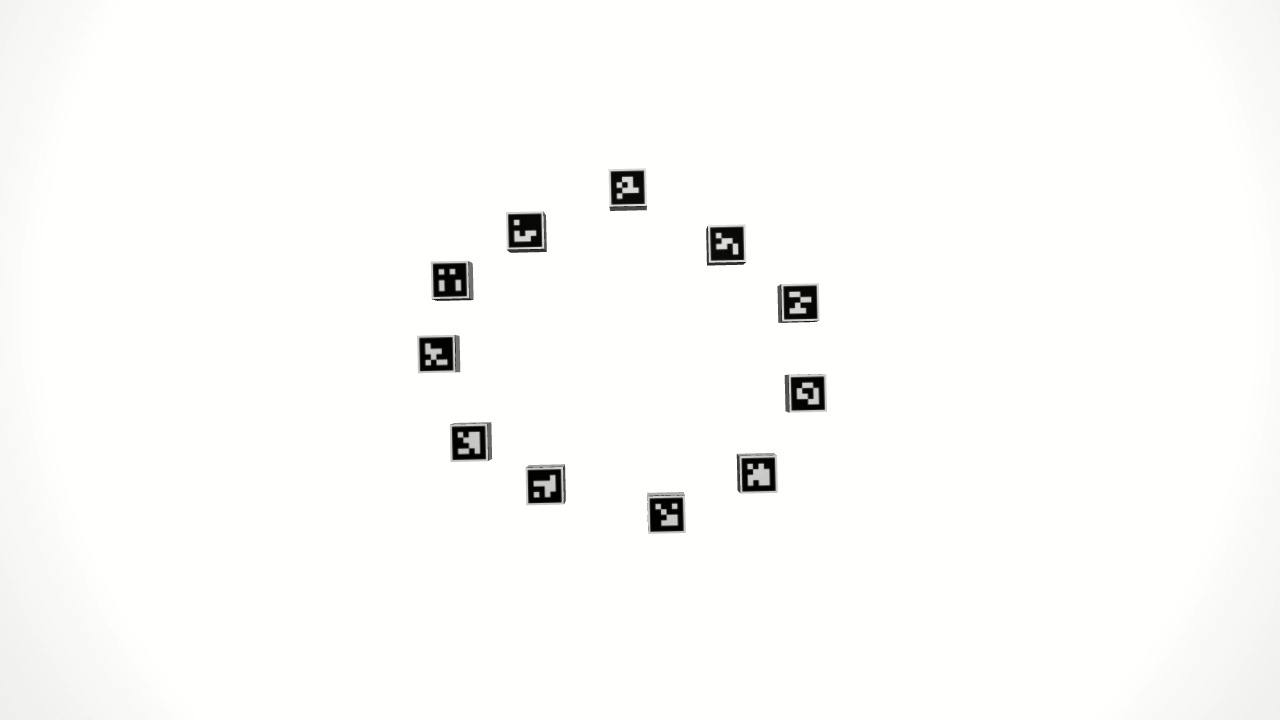
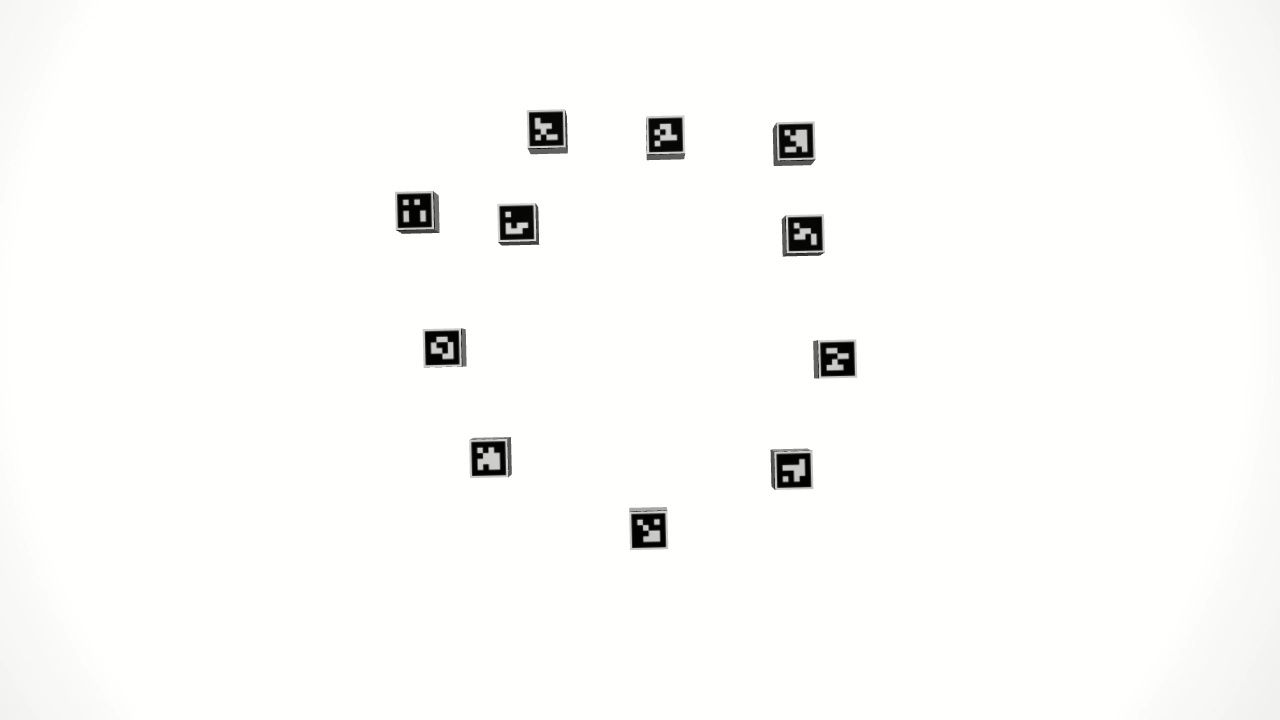
Add files via upload

diff --git a/temp/other/testdata.py b/temp/other/testdata.py
@@ -1,0 +1,49 @@
+from numpy import array
+
+center={0: array([0., 0.]), 
+        1: array([-49.2786501 , 106.17397661]), 
+        2: array([  86.95101724, -115.76634982]), 
+        3: array([ 43.38015243, 232.64553474]), 
+        4: array([190.34496467, -68.14251271]), 
+        5: array([273.9463673 ,  17.77893655]), 
+        6: array([235.42759065, 170.61432382]), 
+        7: array([ 43.50667867, 271.21435669]), 
+        8: array([-102.41431509, -128.3092229 ]), 
+        9: array([  5.18739833, 232.9264687 ]), 
+        10: array([346.87827779, 155.8551419 ])}
+
+corner={0: array([[-16.9210455 , -16.79415513],
+       [ 16.62745731, -16.73737034],
+       [ 16.90264095,  16.7758886 ],
+       [-16.86386866,  16.97534445]]), 1: array([[-66.33961915,  89.15159166],
+       [-32.46482571,  89.26681083],
+       [-32.44743998, 122.96712224],
+       [-65.95447404, 122.94237583]]), 2: array([[  70.13885697, -132.59616816],
+       [ 103.81077106, -132.72236047],
+       [ 103.67558727,  -99.02421372],
+       [  70.09319156,  -98.81227831]]), 3: array([[ 26.79361678, 215.97024195],
+       [ 60.15322876, 215.71556566],
+       [ 60.21980101, 249.57529489],
+       [ 26.80060297, 249.38016673]]), 4: array([[173.3685119 , -85.02685219],
+       [207.26472023, -85.14519139],
+       [207.21447076, -51.36453962],
+       [173.64291578, -51.35860768]]), 5: array([[256.969811  ,   0.86518023],
+       [290.7686754 ,   0.90238964],
+       [290.75165058,  34.52205344],
+       [257.10871091,  34.67088123]]), 6: array([[218.42645213, 153.77169216],
+       [252.13462324, 153.87970844],
+       [252.56246674, 187.58944616],
+       [218.67034996, 187.3992302 ]]), 7: array([[ 26.481621  , 254.2789346 ],
+       [ 60.1304851 , 254.57686332],
+       [ 60.45442596, 288.07287542],
+       [ 26.67531371, 288.05957948]]), 8: array([[-119.1441967 , -144.96507673],
+       [ -85.51114371, -145.48174054],
+       [ -85.5968326 , -111.56615581],
+       [-119.2782466 , -111.1765704 ]]), 9: array([[-11.72442391, 215.93464781],
+       [ 21.92707093, 216.20169618],
+       [ 21.81542866, 249.63315522],
+       [-11.70700274, 249.80583197]]), 10: array([[329.84993488, 139.02983613],
+       [363.69461552, 138.86677278],
+       [363.92741183, 172.70099089],
+       [330.1449271 , 172.75967503]])}
+

diff --git a/MSRR.py b/MSRR.py
@@ -24,15 +24,15 @@ class MSRR:
             self.write_log(0)
         if (connect_sim_drone or connect_real_drone) and not drone_stand_alone:
             self.SetPose()
-
+    
+    def feed(self,C):
+        C(self.MP.M,0)
+        
     def reset(self):
         self.MP=Planner()
         self.RC=Coordinator()
         self.AS=Actuator()
         self.SetRoot()
-    
-    def feed(self,C):
-        C(self.MP.M,0)
 
     def reconfig(self,vC,Coord=1,Target=0,msc=1,rdcb=1,fast=1,rdmp=0):
         print('\Start a New Reconfiguration')
@@ -55,7 +55,7 @@ class MSRR:
                 while self.semaphore!=0:
                     pass
                 self.write_log(i+1)
-            self.write_log(0)
+        self.write_log(0)
     
     #------------ COORDINATOR ------------#
 
@@ -134,8 +134,10 @@ class MSRR:
         if not (Coord and Target):
             self.MP.initTopo(rdcb)
         if Coord:
-            unitCoord=self.RC.unitCoord()
-            self.MP.coordTopo(unitCoord,rdcb)
+            success=False
+            while not success:
+                unitCoord=self.RC.unitCoord()
+                success=self.MP.coordTopo(unitCoord,rdcb)
         if Target:
             self.MP.M.TTopo=Target # set a target topo instead of using default topo, [[[dx,dy],rot],...], e.g [[[0, 0], 0], [[3, 0], 0]]
 
@@ -184,7 +186,15 @@ class MSRR:
                             round(rp[Mid][i][0],3),round(rp[Mid][i][1],3),round(vt[Mid],3),
                             round(dxd,3),round(dyd,3),0,round(dtr,3)]
             print('Sending Signal to Module',Mid,'...','Process:',i+1,'/',len(rp[Mid]))
-            self.SI.sendSignal(Mid,signal)
+            success=False
+            wait=0
+            while not success:
+                success=self.SI.sendSignal(Mid,signal)
+                if not success:
+                    time.sleep(1)
+                    wait=1
+                if success and wait:
+                    print('Send Signal to Module',Mid,'success  ...','Process:',i+1,'/',len(rp[Mid]))
             self.SILock=0 
             time.sleep(dt)
         self.semaphore+=1

diff --git a/configs.py b/configs.py
@@ -1,7 +1,7 @@
 """ General Configs """
 
 root_path='/home/chengjunyan1/Documents/MSRR-System/'
-# root_path='C:\ChengJunyan1\MSRR-Sysyem'
+# root_path='C:\ChengJunyan1\MSRR-System'
 # root_path=os.path.abspath(os.curdir)
 
 connect_sim_drone=1
@@ -15,7 +15,6 @@ pf_map_size=15 # size of the map in pf
 pf_map_resolution=15 # resolution of the map in pf
 signal_dt=0.001
 planner_buffer_time=3
-ros_on=1
 
 """ MSRR Configs """
 
@@ -138,6 +137,14 @@ def C7(M,mode):
     Add(Gid,5,6,3,0)
 
 # DEMOS
+
+def C13(M,mode):
+    C1(M,mode)
+    C3(M,mode)
+
+def C24(M,mode):
+    C2(M,mode)
+    C4(M,mode)
 
 def D1(M): # Multi Graph
     C3(M,0)

diff --git a/MSRRScript.py b/MSRRScript.py
@@ -2,7 +2,7 @@ from MSRR  import *
 from configs import *
 import sys,cv2,time
 
-init=0 if len(sys.argv)==1 else sys.argv[1]
+init=0 if len(sys.argv)==1 else 1
 X=MSRR(init)
 
 """---------- Instructions ----------"""
